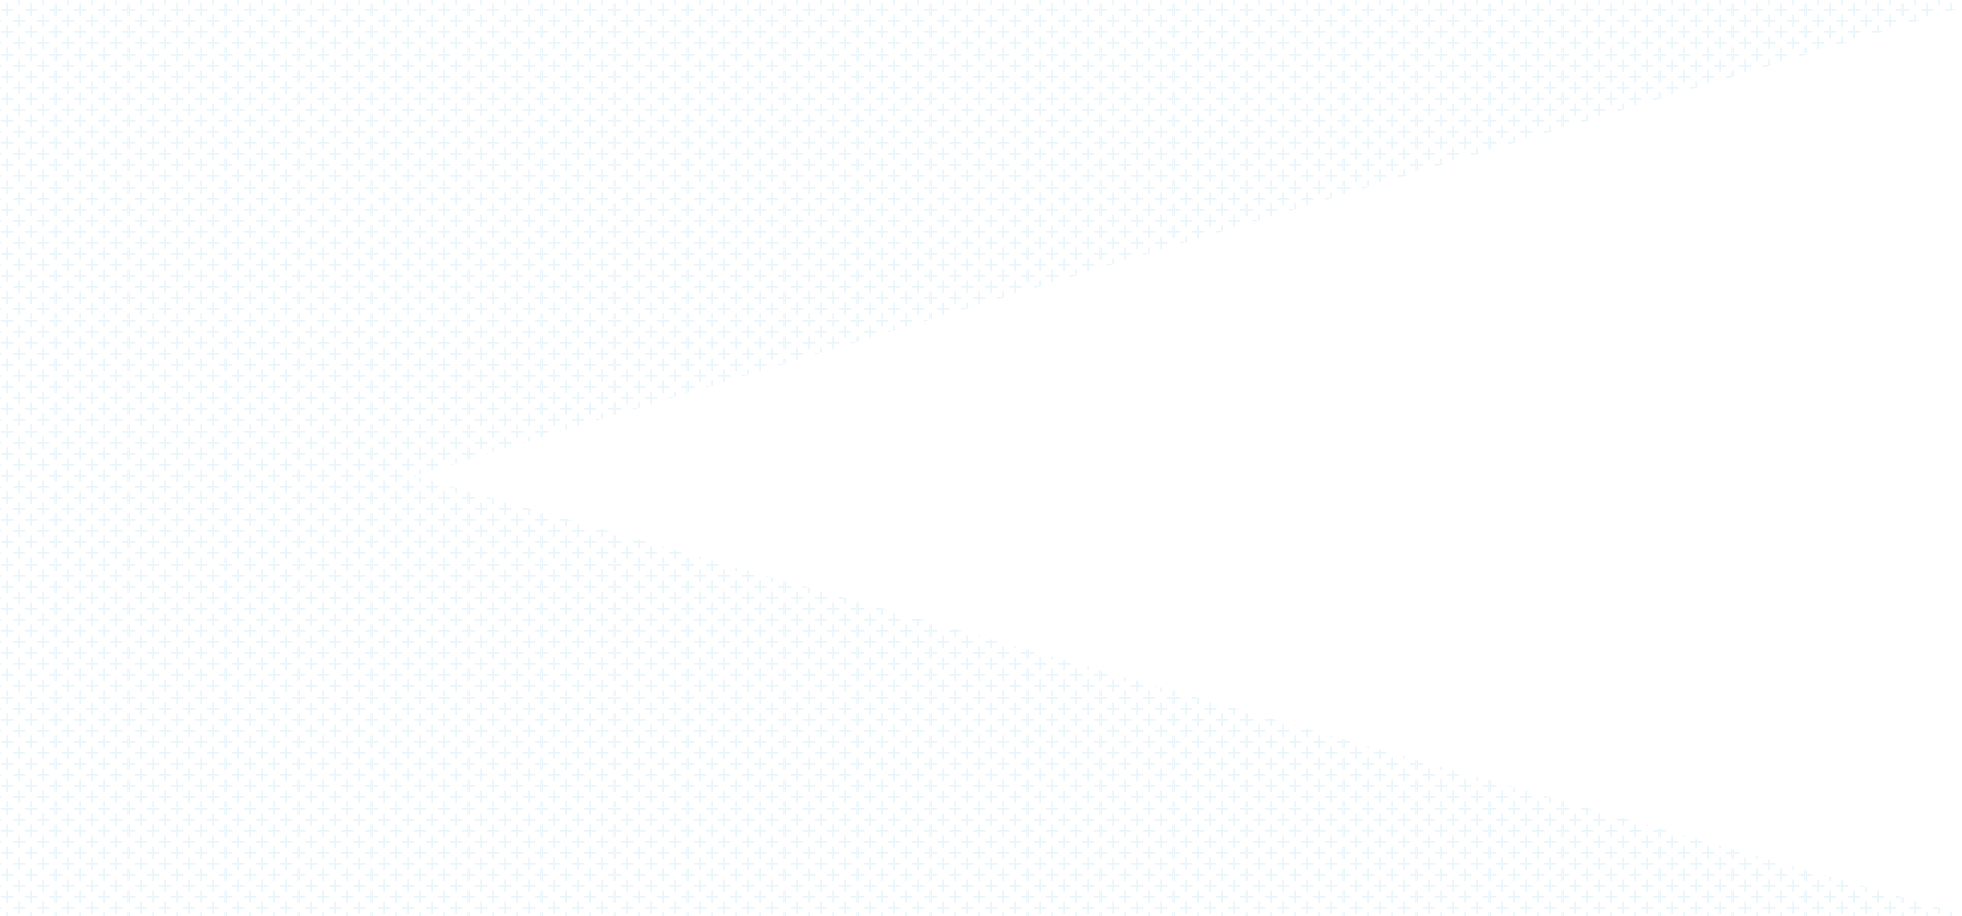
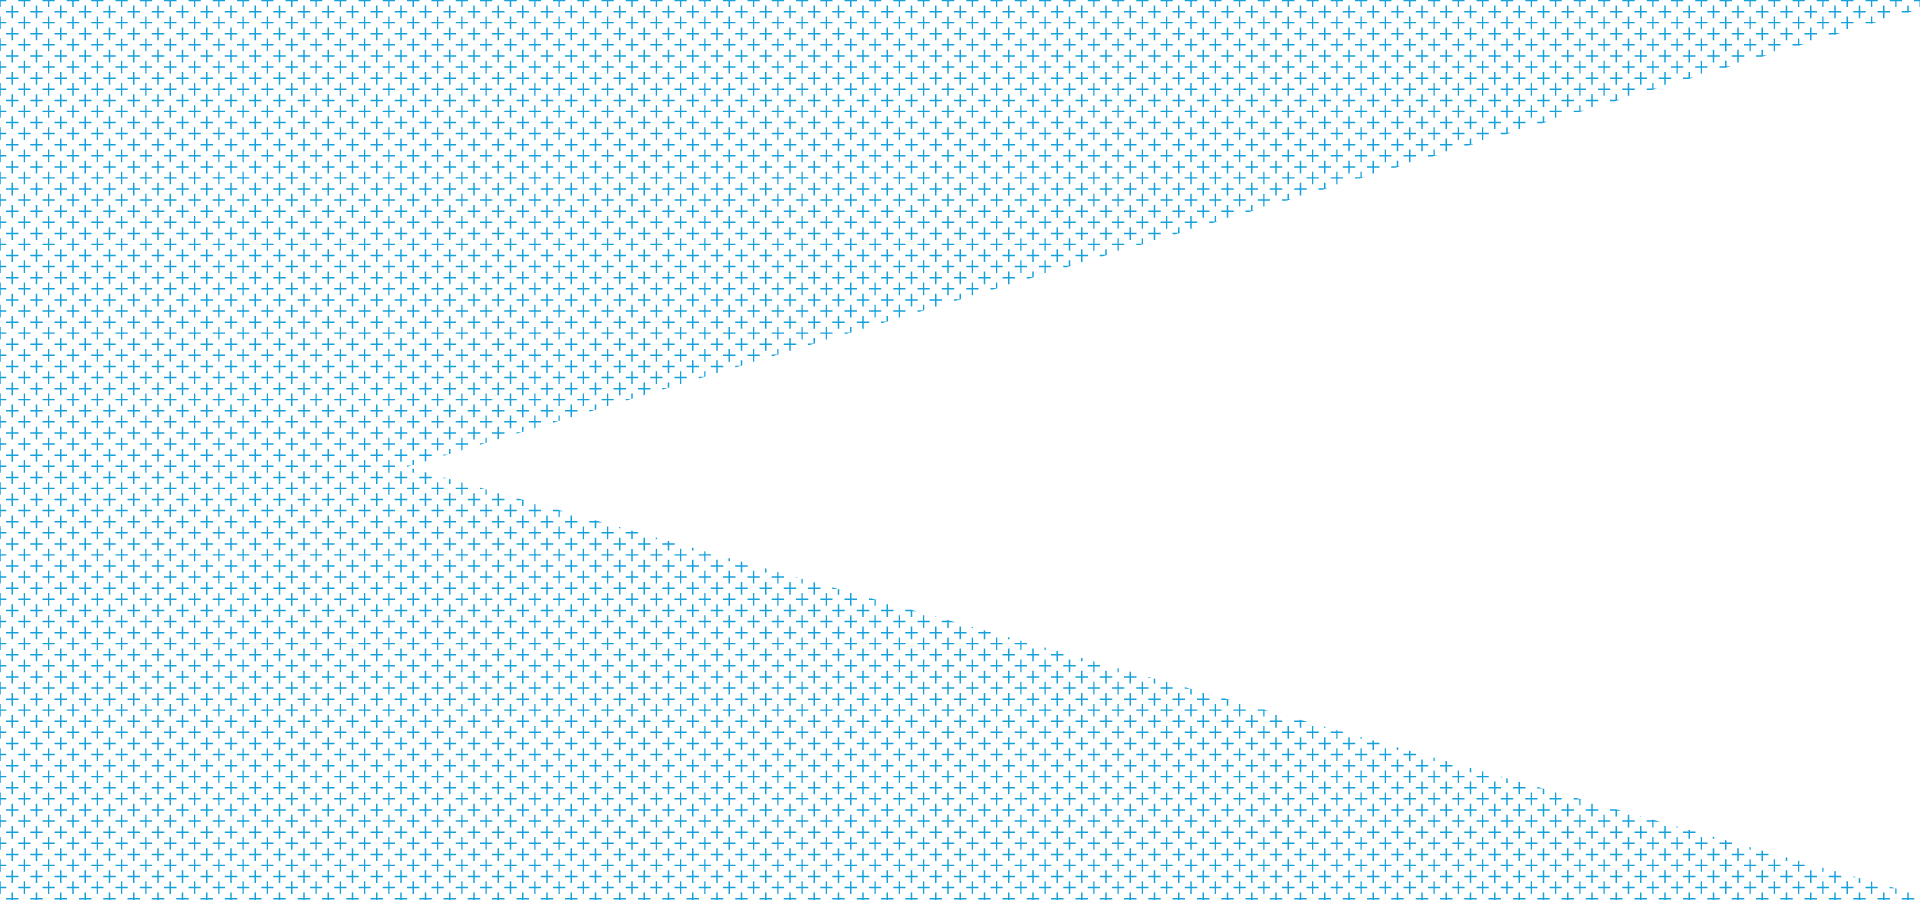
add background

Changed region(s): [[0.0, 0.0, 1.0, 1.0]]

diff --git a/www/css/frm.css b/www/css/frm.css
@@ -12,13 +12,16 @@ html, body{
 }
 
 .background {
+    opacity:0.4;
+    position: fixed;
+    top: 0px; 
 }
 
 .background:before {
     content: url('../img/plus.png');
     
-    #filter:alpha(opacity=50);
-    #filter: progid:DXImageTransform.Microsoft.Alpha(opacity=0.5);
+    filter:alpha(opacity=50);
+    filter: progid:DXImageTransform.Microsoft.Alpha(opacity=0.5);
 }
 
 a {

diff --git a/www/index.html b/www/index.html
@@ -75,6 +75,7 @@
         <title>FRM Study App</title>
     </head>
     <body>
+        <div class="background"></div>
 		<div id="view-container" class="view-container">
 			<div ng-view class="view-frame"></div>
 		</div>

diff --git a/www/partials/frm-dashboard.html b/www/partials/frm-dashboard.html
@@ -1,6 +1,4 @@
 <!-- Fixed navbar -->
-<div class="background"></div>
-
 <div class="slide-animate" ng-include="'partials/frm-mainnav.html'"></div>
 
 
